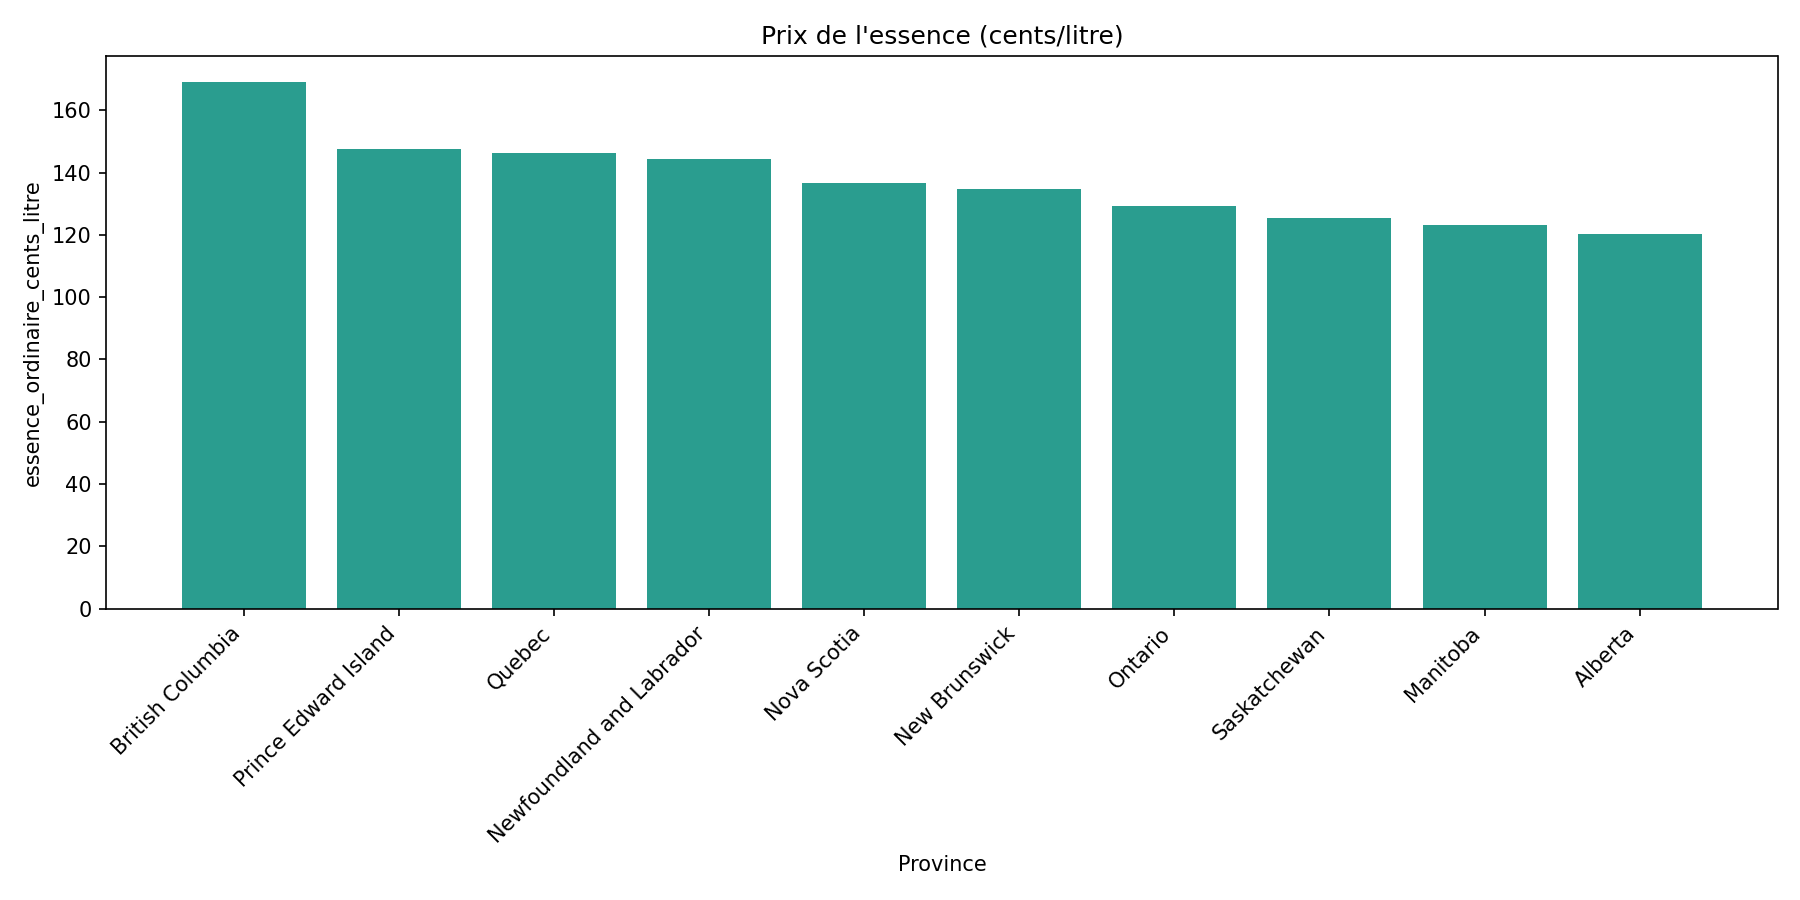
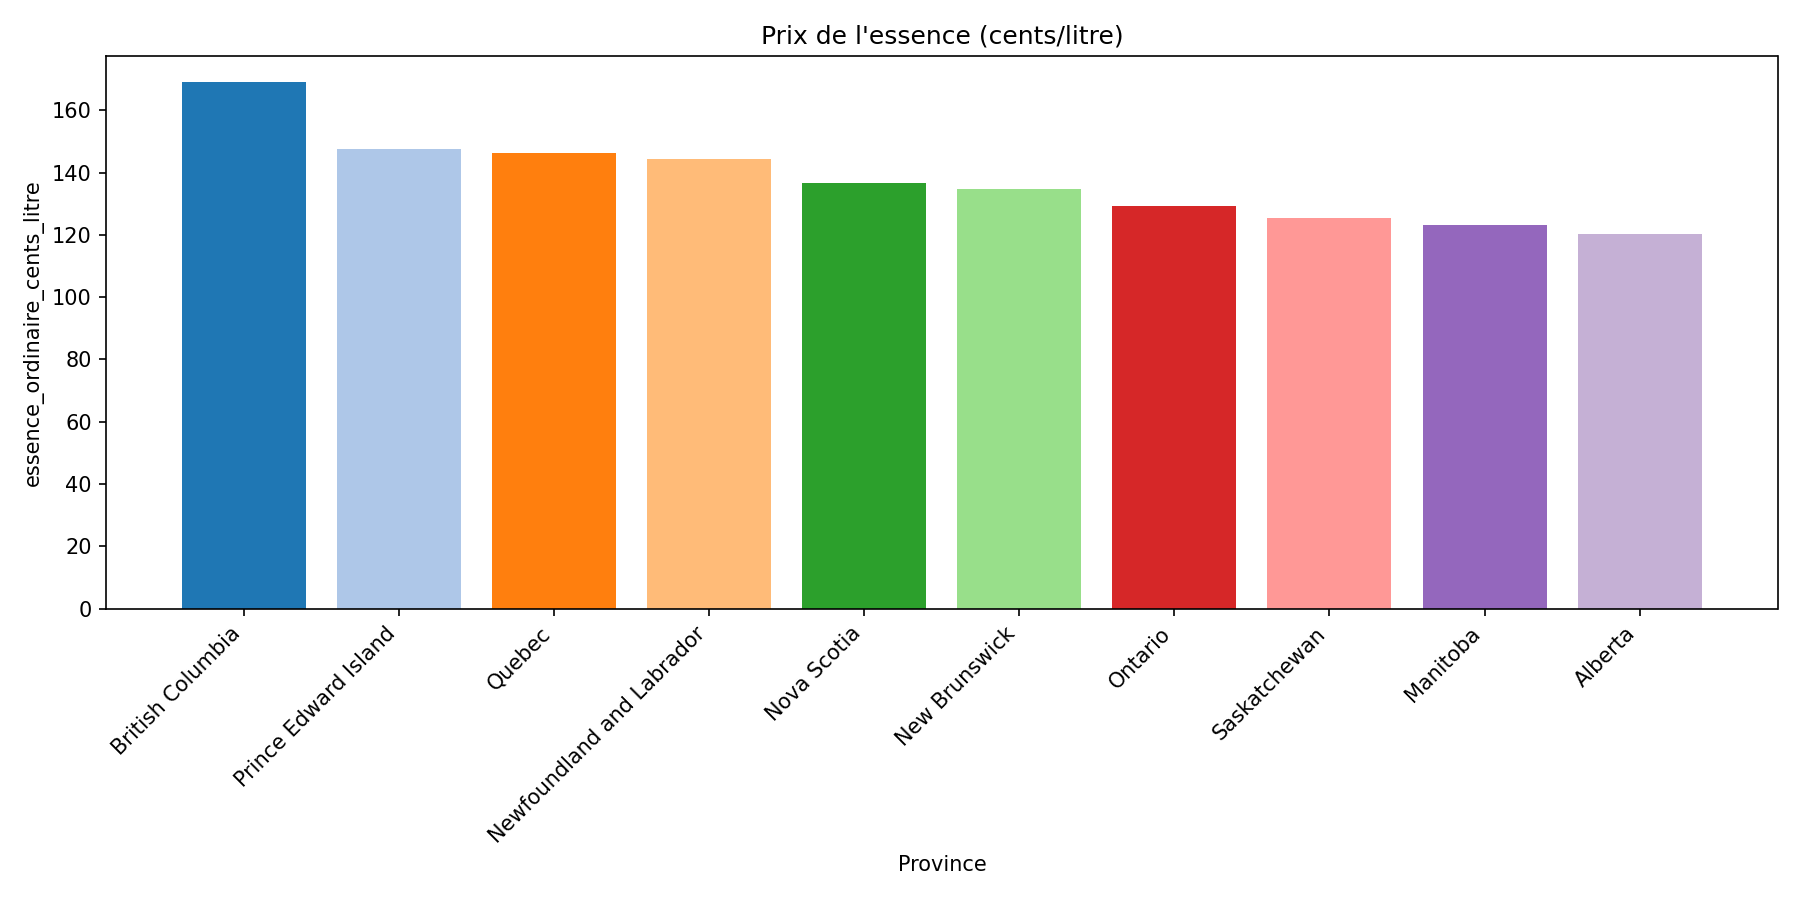
update

diff --git a/src/bar_charts.py b/src/bar_charts.py
@@ -39,7 +39,8 @@ def save_bar_chart(df: pd.DataFrame, column: str, title: str, filename: str) -> 
     chart_df = chart_df.dropna(subset=[column]).sort_values(column, ascending=False)
 
     plt.figure(figsize=(12, 6))
-    plt.bar(chart_df["province"], chart_df[column], color="#2a9d8f")
+    colors = plt.cm.tab20(range(len(chart_df)))
+    plt.bar(chart_df["province"], chart_df[column], color=colors)
     plt.title(title)
     plt.xlabel("Province")
     plt.ylabel(column)
